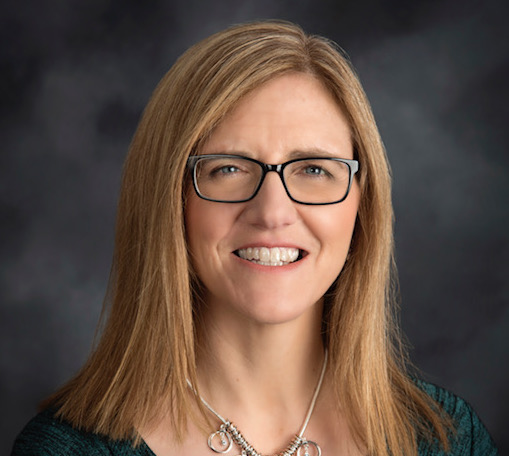
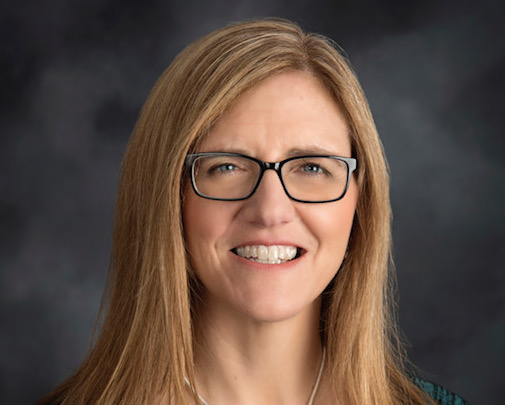
denise/penguin

Changed region(s): [[0.0, 0.0593, 0.9802, 1.0], [0.2376, 0.2963, 0.2673, 0.3556]]

diff --git a/dist/index.html b/dist/index.html
@@ -63,7 +63,22 @@
     </div>
     <div class="grid-x grid-margin-x align-middle top-padding">
       <div class="large-4 medium-6 cell medium-order-2">
-        <img class="thumbnail" src="assets/img/penguins.png">
+        <div class="orbit" data-orbit data-options="timerDelay: 6000; animInFromLeft:fade-in; animInFromRight:fade-in; animOutToLeft:fade-out; animOutToRight:fade-out;">
+          <div class="orbit-wrapper">
+            <ul class="orbit-container">
+              <li class="is-active orbit-slide">
+                <figure class="orbit-figure">
+                  <img class="orbit-image" src="assets/img/denise.jpg">
+                </figure>
+              </li>
+              <li class="orbit-slide">
+                <figure class="orbit-figure">
+                  <img class="orbit-image" src="assets/img/penguins_cropped.png">
+                </figure>
+              </li>
+            </ul>
+          </div>
+        </div>
       </div>
       <div class="medium-6 large-offset-1 cell small-order-1">
         <h2>Denise Potter, RDN</h2>

diff --git a/src/pages/index.html b/src/pages/index.html
@@ -29,7 +29,22 @@
   </div>
   <div class="grid-x grid-margin-x align-middle top-padding">
     <div class="large-4 medium-6 cell medium-order-2">
-      <img class="thumbnail" src="{{root}}assets/img/penguins.png">
+      <div class="orbit" data-orbit data-options="timerDelay: 6000; animInFromLeft:fade-in; animInFromRight:fade-in; animOutToLeft:fade-out; animOutToRight:fade-out;">
+        <div class="orbit-wrapper">
+          <ul class="orbit-container">
+            <li class="is-active orbit-slide">
+              <figure class="orbit-figure">
+                <img class="orbit-image" src="{{root}}assets/img/denise.jpg">
+              </figure>
+            </li>
+            <li class="orbit-slide">
+              <figure class="orbit-figure">
+                <img class="orbit-image" src="{{root}}assets/img/penguins_cropped.png">
+              </figure>
+            </li>
+          </ul>
+        </div>
+      </div>
     </div>
     <div class="medium-6 large-offset-1 cell small-order-1">
       <h2>Denise Potter, RDN</h2>
